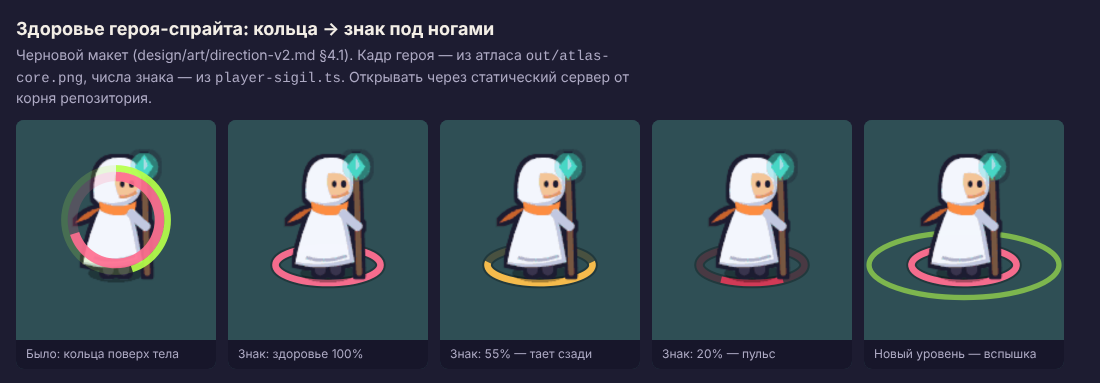
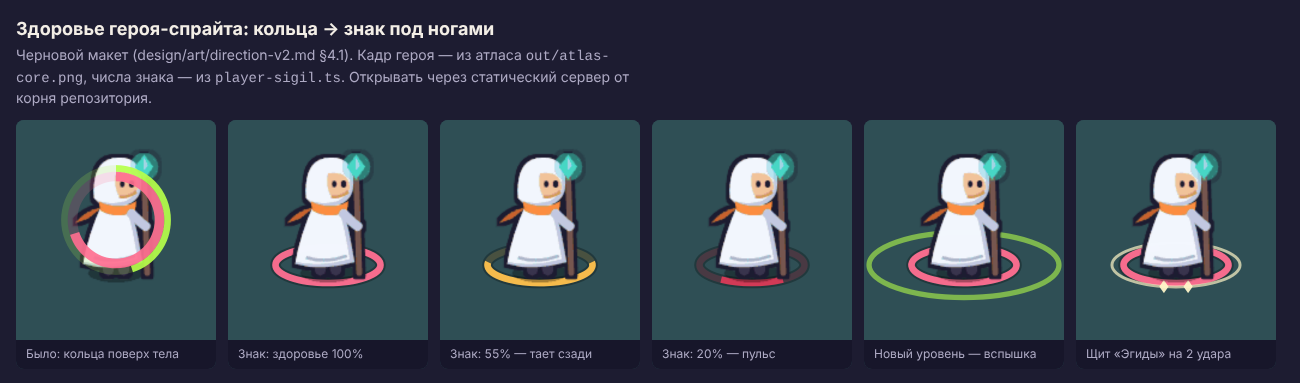
feat(dev): Щит «Эгиды» на знаке героя
Щит буста был виден только вспышкой в момент удара: сколько попаданий
он ещё примет, игрок не знал. У героя-спрайта вокруг знака под ногами
теперь светлый ободок и ромб-бусина на каждое оставшееся попадание,
симметрично спереди, не больше пяти. Рисуется в том же Graphics, без
новых объектов в кадре.

Claude-Session: https://claude.ai/code/session_011CKd94EpHbH571mHYUC4N9

Changed region(s): [[0.0309, 0.3159, 0.9891, 0.8903], [0.0, 0.0574, 0.5564, 0.2872], [0.0, 0.8903, 0.9582, 0.9478]]

diff --git a/packages/core-game/src/game/render/player-rings.ts b/packages/core-game/src/game/render/player-rings.ts
@@ -1,7 +1,7 @@
 import Phaser from "phaser";
 import type { World } from "../sim/world";
 import { WORLD_COLORS } from "./looks";
-import { ellipsePoints, hpArc, levelFlash, SIGIL } from "./player-sigil";
+import { ellipsePoints, hpArc, levelFlash, SHIELD_RIM, shieldBeads, SIGIL } from "./player-sigil";
 
 /**
  * Кольца вокруг персонажа: здоровье убывает по кругу, как часы, а опыт
@@ -111,6 +111,25 @@ export class PlayerRings {
       const alpha = hp > PULSE_BELOW ? 0.95 : 0.55 + 0.45 * pulse(tick);
       ground.lineStyle(width, color, alpha);
       strokeLine(ground, ellipsePoints(cx, cy, rx, ry, arc.start, arc.end, SIGIL_SEGMENTS));
+    }
+
+    // Щит «Эгиды» — светлый ободок вокруг знака и бусина на каждое попадание,
+    // которое он ещё примет: щит виден до удара, а не только вспышкой после.
+    const shield = this.world.player.shieldHits;
+    if (shield > 0) {
+      const srx = rx * SHIELD_RIM.scale;
+      const sry = ry * SHIELD_RIM.scale;
+      ground.lineStyle(width * 0.45, SHIELD_RIM.color, 0.7);
+      ground.strokeEllipse(cx, cy, srx * 2, sry * 2);
+      ground.fillStyle(SHIELD_RIM.color, 0.95);
+      for (const angle of shieldBeads(shield)) {
+        const bx = cx + Math.cos(angle) * srx;
+        const by = cy + Math.sin(angle) * sry;
+        // Ромб двумя треугольниками — без новых объектов в каждом кадре.
+        const half = width * 0.7;
+        ground.fillTriangle(bx, by - width, bx + half, by, bx - half, by);
+        ground.fillTriangle(bx - half, by, bx + half, by, bx, by + width);
+      }
     }
 
     // Новый уровень — кольцо расходится от знака: момент виден на герое.

diff --git a/design/art/mockups/hero-sigil.html b/design/art/mockups/hero-sigil.html
@@ -34,7 +34,10 @@ const panels = [
   { title: "Знак: 55% — тает сзади", mode: "sigil", hp: 0.55 },
   { title: "Знак: 20% — пульс", mode: "sigil", hp: 0.2, pulse: true },
   { title: "Новый уровень — вспышка", mode: "sigil", hp: 0.8, flash: 0.35 },
+  { title: "Щит «Эгиды» на 2 удара", mode: "sigil", hp: 0.9, shield: 2 },
 ];
+// Числа щита — как SHIELD_RIM и shieldBeads в player-sigil.ts.
+const SHIELD = { scale: 1.22, color: "#fff6c8", step: 0.38 };
 
 const hpColor = (f) => (f > 0.6 ? HP.full : f > 0.3 ? HP.mid : HP.low);
 
@@ -69,6 +72,18 @@ async function main() {
       ctx.globalAlpha = panel.pulse ? 0.75 : 0.95;
       const half = Math.PI * panel.hp;
       ellipseArc(ctx, sx, sy, rx, ry, Math.PI / 2 - half, Math.PI / 2 + half);
+      if (panel.shield !== undefined) {
+        const srx = rx * SHIELD.scale, sry = ry * SHIELD.scale;
+        ctx.globalAlpha = 0.7; ctx.strokeStyle = SHIELD.color; ctx.lineWidth = lw * 0.45;
+        ellipseArc(ctx, sx, sy, srx, sry, 0, Math.PI * 2);
+        ctx.globalAlpha = 0.95; ctx.fillStyle = SHIELD.color;
+        for (let i = 0; i < panel.shield; i++) {
+          const a = Math.PI / 2 + (i - (panel.shield - 1) / 2) * SHIELD.step;
+          const bx = sx + Math.cos(a) * srx, by = sy + Math.sin(a) * sry, half = lw * 0.7;
+          ctx.beginPath(); ctx.moveTo(bx, by - lw); ctx.lineTo(bx + half, by); ctx.lineTo(bx, by + lw); ctx.lineTo(bx - half, by); ctx.closePath(); ctx.fill();
+        }
+        ctx.globalAlpha = 1;
+      }
       if (panel.flash !== undefined) {
         const t = panel.flash, k = 1 + 1.4 * (1 - (1 - t) * (1 - t));
         ctx.globalAlpha = 0.9 * (1 - t); ctx.strokeStyle = XP; ctx.lineWidth = lw * 0.8;

diff --git a/packages/core-game/test/player-sigil.test.ts b/packages/core-game/test/player-sigil.test.ts
@@ -1,5 +1,5 @@
 import { describe, expect, it } from "vitest";
-import { ellipsePoints, hpArc, LEVEL_FLASH_TICKS, levelFlash } from "../src/game/render/player-sigil";
+import { ellipsePoints, hpArc, LEVEL_FLASH_TICKS, levelFlash, SHIELD_BEADS_MAX, SHIELD_RIM, shieldBeads } from "../src/game/render/player-sigil";
 
 // Знак под ногами героя-спрайта (design/art/direction-v2.md §4.1): здоровье —
 // дугой эллипса на земле, а не кольцами поверх тела. Дуга тает с тыльной
@@ -50,5 +50,25 @@ describe("вспышка нового уровня", () => {
     expect(middle?.scale).toBeGreaterThan(start?.scale ?? 0);
     expect(levelFlash(LEVEL_FLASH_TICKS)).toBeNull();
     expect(levelFlash(-1)).toBeNull();
+  });
+});
+
+describe("щит «Эгиды» на знаке", () => {
+  it("бусина на каждое оставшееся попадание, симметрично спереди", () => {
+    expect(shieldBeads(0)).toEqual([]);
+    expect(shieldBeads(1)).toEqual([Math.PI / 2]);
+    const three = shieldBeads(3);
+    expect(three).toHaveLength(3);
+    expect(three[1]).toBeCloseTo(Math.PI / 2);
+    expect((three[0] ?? 0) + (three[2] ?? 0)).toBeCloseTo(Math.PI);
+  });
+
+  it("бусин не больше, чем сосчитать взглядом", () => {
+    expect(shieldBeads(40)).toHaveLength(SHIELD_BEADS_MAX);
+    expect(shieldBeads(-2)).toEqual([]);
+  });
+
+  it("ободок шире знака: дуга здоровья остаётся внутри", () => {
+    expect(SHIELD_RIM.scale).toBeGreaterThan(1);
   });
 });

diff --git a/packages/core-game/src/game/render/player-sigil.ts b/packages/core-game/src/game/render/player-sigil.ts
@@ -58,3 +58,21 @@ export function levelFlash(age: number): { scale: number; alpha: number } | null
   const t = age / LEVEL_FLASH_TICKS;
   return { scale: 1 + 1.4 * (1 - (1 - t) * (1 - t)), alpha: 0.9 * (1 - t) };
 }
+
+/** Ободок щита «Эгиды» — шире знака: здоровье остаётся читаемым внутри. */
+export const SHIELD_RIM = { scale: 1.22, color: 0xfff6c8 } as const;
+
+/** Бусин щита рисуется не больше этого: дальше их не сосчитать взглядом. */
+export const SHIELD_BEADS_MAX = 5;
+
+/** Шаг между бусинами по эллипсу, радианы. */
+const BEAD_STEP = 0.38;
+
+/**
+ * Углы бусин щита — по одной на оставшееся попадание, симметрично вокруг
+ * передней точки: сколько ударов ещё примет щит, видно под ногами.
+ */
+export function shieldBeads(hits: number): number[] {
+  const count = Math.max(0, Math.min(SHIELD_BEADS_MAX, Math.floor(hits)));
+  return Array.from({ length: count }, (_, i) => FRONT + (i - (count - 1) / 2) * BEAD_STEP);
+}

diff --git a/docs/27-design-system-and-app-shell.md b/docs/27-design-system-and-app-shell.md
@@ -1294,7 +1294,7 @@ query, не ширина экрана) фишка — значок и счёт, 
 | Помощь в тестировании | Диагностика | рабочий | Сведения об устройстве с кнопками «Поделиться с командой» (в чат команды тем же путём, что отзыв) и «Скопировать»; стресс-тест — тем, кому открыт; витрина компонентов — с правом `tools.dev` |
 | Настройки | Об игре | рабочий | Знак, имя и слоган игры, версия, предупреждение о тесте тем же текстом, что экран предупреждения, лицензии ассетов CC0 и шрифтов (Russo One и IBM Plex Sans — SIL OFL 1.1) — атрибуция обязательна |
 | **Забег** | Загрузка | рабочий | Этапы «движок → мир → бой» с отметками, выбранное оружие, подсказка по игре; гаснет с первым кадром (§3.4). При «Ещё раз» не показывается: сцена уже жива |
-| Забег | Кольца персонажа | рабочий | Вокруг персонажа два кольца: здоровье убывает по кругу и краснеет к концу, опыт наполняется до следующего уровня. Полоски в HUD они не заменяют, а дополняют: в бою игрок смотрит на персонажа, а не в угол экрана (`render/player-rings.ts`). У героя-спрайта (черновой арт, `design/art/direction-v2.md` §4.1) колец нет — они режут тело: здоровье — знаком под ногами, дугой эллипса на земле, которая тает с тыльной стороны; опыт — только в HUD; новый уровень — светлое кольцо расходится от знака (`render/player-sigil.ts`) |
+| Забег | Кольца персонажа | рабочий | Вокруг персонажа два кольца: здоровье убывает по кругу и краснеет к концу, опыт наполняется до следующего уровня. Полоски в HUD они не заменяют, а дополняют: в бою игрок смотрит на персонажа, а не в угол экрана (`render/player-rings.ts`). У героя-спрайта (черновой арт, `design/art/direction-v2.md` §4.1) колец нет — они режут тело: здоровье — знаком под ногами, дугой эллипса на земле, которая тает с тыльной стороны; опыт — только в HUD; новый уровень — светлое кольцо расходится от знака; щит буста «Эгида» — светлый ободок вокруг знака и ромб-бусина на каждое попадание, которое он ещё примет (`render/player-sigil.ts`) |
 | Забег | HUD | рабочий | HP с сердцем и числом «84/120», таймер выживания, уровень и полоса опыта, слоты оружия и пассивок значками, за ними бусты забега — плашками с рамкой акцента, первые шесть секунд с именами, радар справа под верхними полосами, пауза. Пока на поле босс — его полоса здоровья с именем и делениями фаз. У забега разработчика — кнопка листа режима рядом с паузой (ставит паузу) и техническая сводка справа: FPS, кадр и шаг симуляции, шагов за кадр, враги и потолок, снаряды, кристаллы и подборы, отрезок с множителями, тик, позиция и зум, seed, скорость времени и пометка «Читы». С оверлеем FPS тестировщика — одна строка FPS |
 | Забег | Подсказки первого забега | рабочий | Три плашки по очереди над слотами: «двигайся», «собирай кристаллы», «уходи от толпы». Гаснут не по таймеру, а когда игрок сделал то, о чём подсказка (условия — по снимку HUD, `state/hints.ts`); усвоенная не показывается снова, вернуть все — в настройках. Касания не ловят: под плашкой джойстик |
 | Забег | Пауза | рабочий | Продолжить, «Характеристики» и настройки в ряд, режим экрана, сдаться. Настройки открываются поверх забега, не прерывая его. У продолженного из сохранения забега заголовок «Забег сохранён». У забега разработчика — ещё кнопка «Разработчик» |

diff --git a/docs/30-configuration-map.md b/docs/30-configuration-map.md
@@ -107,7 +107,7 @@
 | Скорость притяжения кристаллов и запас подбора | `game/sim/gems.ts` → `GEM_SPEED`, `PICKUP_SLACK` |
 | Как быстро подборы подползают к игроку в радиусе сбора | `game/sim/pickups.ts` → `PULL_AT_EDGE`, `PULL_AT_PLAYER` |
 | Кольца здоровья и опыта вокруг персонажа: радиусы, толщина, пороги цвета | `game/render/player-rings.ts` |
-| Знак под ногами героя-спрайта: размеры эллипса, толщина, вспышка уровня | `game/render/player-sigil.ts` (`SIGIL`, `LEVEL_FLASH_TICKS`) |
+| Знак под ногами героя-спрайта: размеры эллипса, толщина, вспышка уровня, ободок щита и число бусин | `game/render/player-sigil.ts` (`SIGIL`, `LEVEL_FLASH_TICKS`, `SHIELD_RIM`, `SHIELD_BEADS_MAX`) |
 | Полёт кристалла от места смерти: длительность, разлёт, потолок горсти | `game/sim/gems.ts` → `GEM_LAND_TICKS`, `SCATTER_MIN`, `SCATTER_MAX`, `MAX_GEMS_PER_KILL` |
 | Формы и цвета мира: враги по паттернам, кристаллы, подборы, снаряды | `game/render/looks.ts` → `ENEMY_LOOKS`, `GEM_TIERS`, `PICKUP_LOOKS`, `WORLD_COLORS`; рисование фигур — `render/shapes.ts` |
 | Ступени ценности кристаллов: пороги, цвета, размеры; подскок и мерцание | `game/render/looks.ts` → `GEM_TIERS`; `render/pickups.ts` → `GEM_HOP_UNITS`, `SHIMMER_*` |
